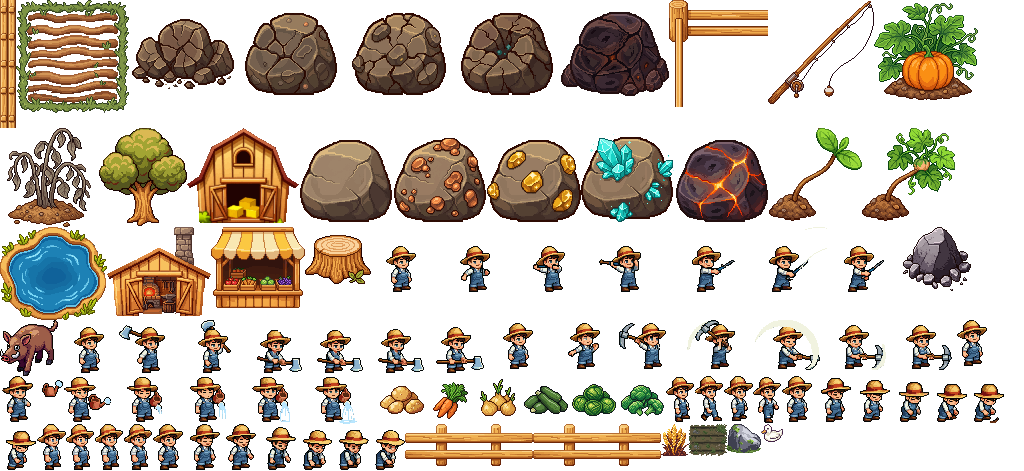
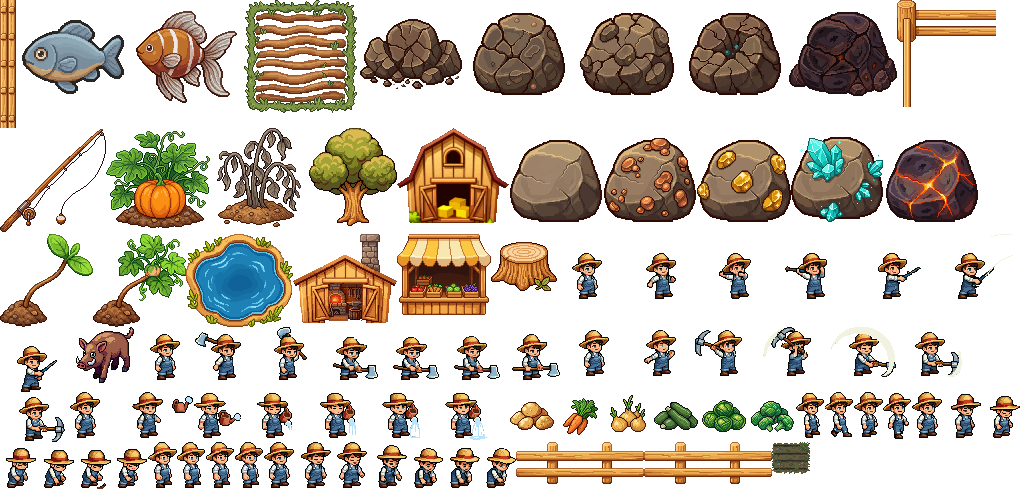
deploy mié 29/07/2026 15:25:36,10

diff --git a/public/index.html b/public/index.html
@@ -24,6 +24,7 @@
   .ric{width:17px;height:17px;object-fit:contain;image-rendering:pixelated;vertical-align:-3px;flex:0 0 auto}
   .eqimg{width:30px;height:30px;object-fit:contain;image-rendering:pixelated}
   .dyimg{width:26px;height:26px;object-fit:contain;image-rendering:pixelated}
+  .swimg{width:26px;height:26px;object-fit:contain;image-rendering:pixelated;display:block;margin:0 auto}
   .btnpill{font-family:inherit;font-size:12px;padding:6px 11px;border-radius:8px;border:1px solid #3c4d31;background:rgba(38,51,31,.92);color:#f2ead5;cursor:pointer;font-weight:700}
 
   #toast{position:fixed;left:50%;top:60px;transform:translateX(-50%);z-index:200;background:rgba(20,25,15,.92);color:#fff;padding:8px 16px;border-radius:10px;font-size:14px;font-weight:600;opacity:0;transition:opacity .2s;pointer-events:none;border:1px solid #4a5340}
@@ -269,8 +270,8 @@
     <div class="hud">
       <div class="pill"><span class="k">Granja</span><b id="s-level">1</b><span class="k">/10</span></div>
       <div class="pill"><span class="k">Prestigio</span><b id="s-prestige">0</b></div>
-      <div class="pill"><img class="ric" src="assets/farm/coin_plata.png?a=3" onerror="this.outerHTML='<span class=&quot;coin silver&quot;></span>'"><b id="s-plata">0</b></div>
-      <div class="pill" title="Esencia $Golden — se usa para pescar"><img class="ric" src="assets/farm/coin_esencia.png?a=3" onerror="this.outerHTML='✨'"><b id="s-golden">20</b></div>
+      <div class="pill"><img class="ric" src="assets/farm/coin_plata.png?a=4" onerror="this.outerHTML='<span class=&quot;coin silver&quot;></span>'"><b id="s-plata">0</b></div>
+      <div class="pill" title="Esencia $Golden — se usa para pescar"><img class="ric" src="assets/farm/coin_esencia.png?a=4" onerror="this.outerHTML='✨'"><b id="s-golden">20</b></div>
       <div class="pill" title="Vida — cuidado en el Bosque"><span>❤</span><b id="s-hp">100/100</b></div>
       <div class="pill"><span class="k">Semana</span><b id="s-week">1</b></div>
       <button class="btnpill" id="menu-btn">☰ Menú</button>
@@ -308,8 +309,8 @@
     </div>
     <div class="shoppane" id="shop-sell" style="display:none">
       <div class="mkt-cur">Cobrar en:
-        <button class="curbtn active" data-cur="plata"><img class="ric" src="assets/farm/coin_plata.png?a=3"> Plata</button>
-        <button class="curbtn" data-cur="golden"><img class="ric" src="assets/farm/coin_esencia.png?a=3"> $Golden</button>
+        <button class="curbtn active" data-cur="plata"><img class="ric" src="assets/farm/coin_plata.png?a=4"> Plata</button>
+        <button class="curbtn" data-cur="golden"><img class="ric" src="assets/farm/coin_esencia.png?a=4"> $Golden</button>
       </div>
       <div class="mkt-list" id="mkt-list"></div>
     </div>
@@ -384,7 +385,7 @@
     <button class="close" data-close="ov-lb">×</button>
     <h3>Leaderboard</h3>
     <div class="lbtabs">
-      <button class="lbtab active" data-lb="plata"><img class="ric" src="assets/farm/coin_plata.png?a=3"> Plata</button>
+      <button class="lbtab active" data-lb="plata"><img class="ric" src="assets/farm/coin_plata.png?a=4"> Plata</button>
       <button class="lbtab" data-lb="exp">⭐ Experiencia</button>
     </div>
     <div class="lblist" id="lb-list"></div>

diff --git a/public/game/farm.js b/public/game/farm.js
@@ -38,11 +38,13 @@ class FarmScene extends Phaser.Scene {
       GF.PLOTS.forEach(pl => { const x = pl.col * T, y = pl.row * T; g.fillStyle(0x8a5a33, 1); g.fillRoundedRect(x + 3, y + 3, T - 6, T - 6, 6); g.fillStyle(0x724829, 1); g.fillRoundedRect(x + 6, y + 6, T - 12, T - 12, 5); });
     }
 
-    // pececitos nadando en la laguna
+    // pececitos nadando en la laguna (sprites cozy; si faltan, emoji)
     this.pondFish = [];
-    ["🐟", "🐠", "🐟"].forEach(em => {
+    ["fish_comun", "fish_raro", "fish_comun"].forEach((fk, fi) => {
       const p0 = this.pondPoint();
-      const s = this.add.text(p0.x, p0.y, em, { fontSize: "13px" }).setOrigin(0.5).setDepth(-990).setAlpha(0.85);
+      const s = this.textures.exists(fk)
+        ? this.add.image(p0.x, p0.y, fk).setDisplaySize(17, 13).setOrigin(0.5).setDepth(-990).setAlpha(0.9)
+        : this.add.text(p0.x, p0.y, fi === 1 ? "🐠" : "🐟", { fontSize: "13px" }).setOrigin(0.5).setDepth(-990).setAlpha(0.85);
       this.pondFish.push({ s, tgt: this.pondPoint(), sp: 10 + Math.random() * 12 });
     });
     g.lineStyle(1, 0x18300f, 0.13);
@@ -682,7 +684,7 @@ class FarmScene extends Phaser.Scene {
     if (this.pondFish) for (const f of this.pondFish) {
       const dx = f.tgt.x - f.s.x, dy = f.tgt.y - f.s.y, d = Math.hypot(dx, dy);
       if (d < 3) { f.tgt = this.pondPoint(); f.sp = 10 + Math.random() * 12; }
-      else { const sp = Math.min(f.sp * dt, d); f.s.x += dx / d * sp; f.s.y += dy / d * sp; f.s.setScale(dx < 0 ? -1 : 1, 1); }
+      else { const sp = Math.min(f.sp * dt, d); f.s.x += dx / d * sp; f.s.y += dy / d * sp; if (f.s.setFlipX) f.s.setFlipX(dx < 0); else f.s.setScale(dx < 0 ? -1 : 1, 1); }
     }
     // amenazas (jabalíes)
     if (t >= this.nextThreatAt && this.threats.length === 0) { this.nextThreatAt = t + 60000; this.spawnThreat(); }

diff --git a/public/game/ui.js b/public/game/ui.js
@@ -69,7 +69,7 @@ function refreshInv() {
   for (let i = 0; i < cap; i++) html += invCellHtml(G.slots[i], i, rem, "inv");
   $("inv-slots").innerHTML = html;
   const used = canonicalStacks().length, cap2 = $("inv-cap"); if (cap2) cap2.textContent = `Bolsa: ${used}/${cap} · recursos y semillas apilan hasta 99`;
-  const ss = $("inv-selseed"); if (ss && CROP_DEF[G.selSeed]) ss.textContent = "🌱 Plantando: " + CROP_DEF[G.selSeed].emoji + " " + CROP_DEF[G.selSeed].label + " · clic una semilla para cambiar";
+  const ss = $("inv-selseed"); if (ss && CROP_DEF[G.selSeed]) ss.innerHTML = `🌱 Plantando: <img class="ric" src="${GF.spr("seed_" + G.selSeed)}" onerror="this.outerHTML='${CROP_DEF[G.selSeed].emoji}'"> ` + CROP_DEF[G.selSeed].label + " · clic una semilla para cambiar";
   renderInvExpand();
   bindZoneDnD($("inv-slots"), "inv");
   $("inv-slots").querySelectorAll("[data-slot]").forEach(c => c.addEventListener("click", () => invCellClick(+c.dataset.slot)));
@@ -231,7 +231,7 @@ function showSeedWheel(px, py, plot) {
     const a = -Math.PI / 2 + i * 2 * Math.PI / opts.length;
     const x = Math.round(Math.cos(a) * R), y = Math.round(Math.sin(a) * R);
     const cd = CROP_DEF[k];
-    return `<div class="swi" data-k="${k}" title="${cd.label} · crece en ${cd.grow}s" style="left:${x}px;top:${y}px"><span>${cd.emoji}</span><b>×${G.seeds[k]}</b></div>`;
+    return `<div class="swi" data-k="${k}" title="${cd.label} · crece en ${cd.grow}s" style="left:${x}px;top:${y}px"><img class="swimg" src="${GF.spr("seed_" + k)}" onerror="this.outerHTML='<span>${cd.emoji}</span>'"><b>×${G.seeds[k]}</b></div>`;
   }).join("") + '<div class="swi center" style="left:0;top:0"><span>🌱</span></div>';
   w.classList.add("show");
   c.querySelectorAll(".swi[data-k]").forEach(el => el.onclick = (ev) => {

diff --git a/public/game/boot.js b/public/game/boot.js
@@ -11,7 +11,8 @@ class BootScene extends Phaser.Scene {
     ["chop","mine","fish","water","plant","harvest"].forEach(a => {
       for (let i = 0; i < 7; i++) L.push(["act_" + a + "_" + i, P + "act_" + a + "_" + i + ".png"]);
     });
-    ["rock","rock_mined","wheat","duck","boar"].forEach(k => L.push([k, P + k + ".png"]));
+    L.push(["boar", P + "boar.png"]);
+    ["fish_comun","fish_raro"].forEach(k => L.push([k, P + k + ".png"]));   // pececitos de la laguna
     // arte cozy nuevo (v2 rompe el caché del arte viejo)
     ["tree_stump","node_stone_mined"].forEach(k => L.push([k, P + k + ".png?v=2"]));
     // v3: restos con fragmentos del mineral + brote derecho (supervisión del 30/7)
@@ -37,8 +38,8 @@ class BootScene extends Phaser.Scene {
   preload() {
     // ATLAS: todos los sprites del mundo en 2 archivos (mucho más liviano para el server free).
     // Si el atlas no llega, ensureAll() baja los archivos sueltos como respaldo.
-    this.load.image("__atlas", "assets/atlas.png?v=7");
-    this.load.json("__atlasmap", "assets/atlas.json?v=7");
+    this.load.image("__atlas", "assets/atlas.png?v=8");
+    this.load.json("__atlasmap", "assets/atlas.json?v=8");
 
     // barra de carga simple
     const w = this.scale.width, h = this.scale.height;

diff --git a/public/game/state.js b/public/game/state.js
@@ -1,6 +1,6 @@
 /* Golden Farm · estado del juego + economía (sin DOM ni canvas) */
 window.GF = window.GF || {};
-GF.spr = (k) => "assets/farm/" + k + ".png?a=3";   // ?a=N rompe el caché de los íconos cuando cambia el arte
+GF.spr = (k) => "assets/farm/" + k + ".png?a=4";   // ?a=N rompe el caché de los íconos cuando cambia el arte
 
 // --- estado principal (con algunos recursos de arranque para probar los menús) ---
 const G = {
